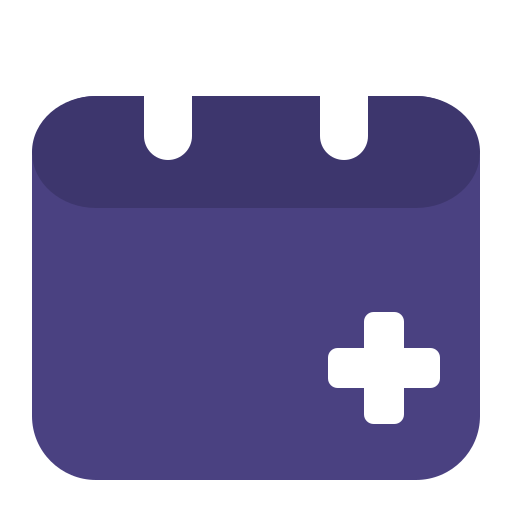
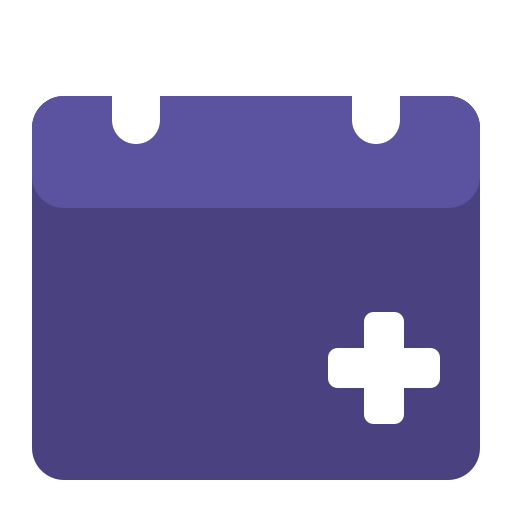
fix: カレンダーアイコンのデザインを改善しコンセントに見える問題を解消
- ヘッダーを本体より明るい紫に変更し影っぽさを解消
- ピンを短くし間隔を広げてコンセント穴感を軽減
- 角丸を控えめにしてカレンダーらしい印象に
- 背景色をダークネイビー系に変更しコントラストを確保
- favicon・アイコン・OGP すべて統一

Changed region(s): [[0.0625, 0.1875, 0.9375, 0.4062], [0.8438, 0.8438, 0.9375, 0.9375], [0.0625, 0.8438, 0.1562, 0.9375]]

diff --git a/apps/web/scripts/generate-images.ts b/apps/web/scripts/generate-images.ts
@@ -20,10 +20,10 @@ async function generateOgpImage() {
   <rect width="1200" height="630" fill="url(#bg)"/>
   <!-- Calendar icon (scaled up, centered horizontally at x=520) -->
   <g transform="translate(520, 120) scale(5)">
-    <rect x="2" y="6" width="28" height="24" rx="4" fill="rgba(255,255,255,0.85)"/>
-    <rect x="2" y="6" width="28" height="7" rx="4" fill="rgba(255,255,255,0.95)"/>
-    <rect x="9" y="3" width="3" height="7" rx="1.5" fill="#fff"/>
-    <rect x="20" y="3" width="3" height="7" rx="1.5" fill="#fff"/>
+    <rect x="2" y="6" width="28" height="24" rx="2" fill="#4a4181"/>
+    <rect x="2" y="6" width="28" height="7" rx="2" fill="#5b52a0"/>
+    <rect x="7" y="4" width="3" height="5" rx="1.5" fill="#fff"/>
+    <rect x="22" y="4" width="3" height="5" rx="1.5" fill="#fff"/>
     <rect x="22.75" y="19.5" width="2.5" height="7" rx="0.6" fill="#fff"/>
     <rect x="20.5" y="21.75" width="7" height="2.5" rx="0.6" fill="#fff"/>
   </g>
